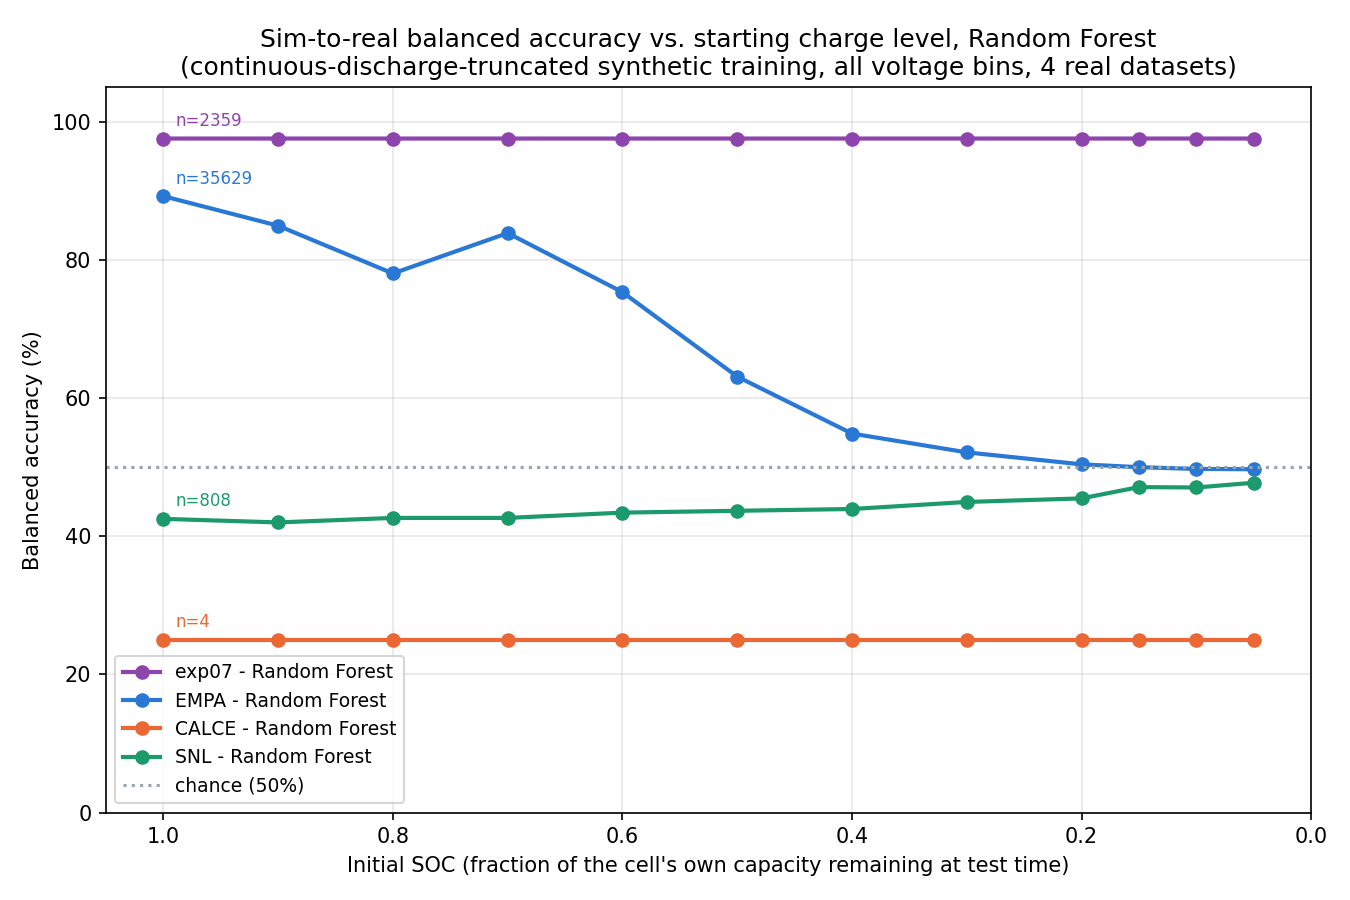
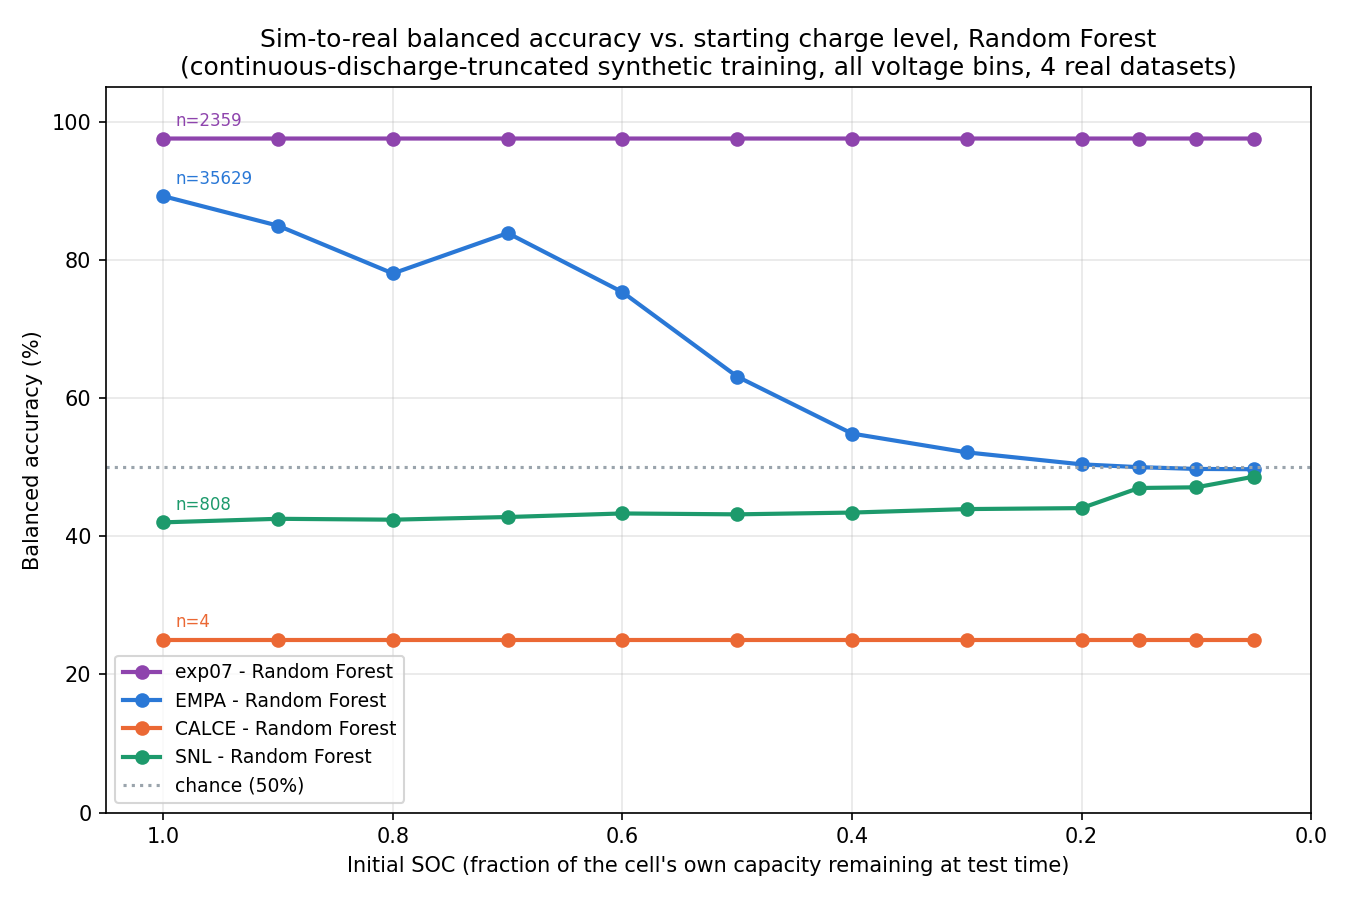
Re-run experiment 27 with the SNL lead-in-artifact fix
Rebuilds SNL's balanced-accuracy numbers against the corrected
real_snl_soc_sweep_raw.csv (experiment 31's fix). Every figure moved by
less than 1.1 points, confirming the fix doesn't meaningfully change the
generalization-gap finding -- exp07/EMPA/CALCE numbers are untouched
(reused from experiment 26, nothing about their own pipeline changed).

diff --git a/experiments/22_29_sim_to_real_validation/27_snl_soc_sweep/RESULTS.md b/experiments/22_29_sim_to_real_validation/27_snl_soc_sweep/RESULTS.md
@@ -103,21 +103,25 @@ associate with NMC.
 
 | Initial_SOC | exp07 | EMPA | CALCE | SNL |
 |---|---|---|---|---|
-| 1.0 | 97.57% | 89.23% | 25.00% | 42.52% |
-| 0.9 | 97.57% | 84.95% | 25.00% | 42.00% |
-| 0.8 | 97.57% | 78.04% | 25.00% | 42.65% |
-| 0.7 | 97.57% | 83.89% | 25.00% | 42.65% |
-| 0.6 | 97.57% | 75.33% | 25.00% | 43.42% |
-| 0.5 | 97.57% | 63.11% | 25.00% | 43.69% |
-| 0.4 | 97.57% | 54.86% | 25.00% | 43.94% |
-| 0.3 | 97.57% | 52.14% | 25.00% | 44.96% |
-| 0.2 | 97.57% | 50.41% | 25.00% | 45.48% |
-| 0.15 | 97.57% | 50.00% | 25.00% | 47.12% |
-| 0.1 | 97.57% | 49.74% | 25.00% | 47.06% |
-| 0.05 | 97.57% | 49.70% | 25.00% | 47.74% |
+| 1.0 | 97.57% | 89.23% | 25.00% | 42.01% |
+| 0.9 | 97.57% | 84.95% | 25.00% | 42.53% |
+| 0.8 | 97.57% | 78.04% | 25.00% | 42.40% |
+| 0.7 | 97.57% | 83.89% | 25.00% | 42.78% |
+| 0.6 | 97.57% | 75.33% | 25.00% | 43.30% |
+| 0.5 | 97.57% | 63.11% | 25.00% | 43.17% |
+| 0.4 | 97.57% | 54.86% | 25.00% | 43.43% |
+| 0.3 | 97.57% | 52.14% | 25.00% | 43.93% |
+| 0.2 | 97.57% | 50.41% | 25.00% | 44.07% |
+| 0.15 | 97.57% | 50.00% | 25.00% | 46.99% |
+| 0.1 | 97.57% | 49.74% | 25.00% | 47.08% |
+| 0.05 | 97.57% | 49.70% | 25.00% | 48.62% |
 
 exp07/EMPA/CALCE numbers are experiment 26's own (unchanged; reused
 directly, not re-run &mdash; nothing about their own pipeline changed here).
+SNL numbers were re-run after [[exp31_snl_lead_in_artifact_fix]] (a
+discharge-parsing bug fixed via experiment 31's plots); the fix moved
+every figure by less than 1.1 points, consistent with that fix's own
+finding that it doesn't meaningfully affect reported accuracy.
 
 ## Plot
 
